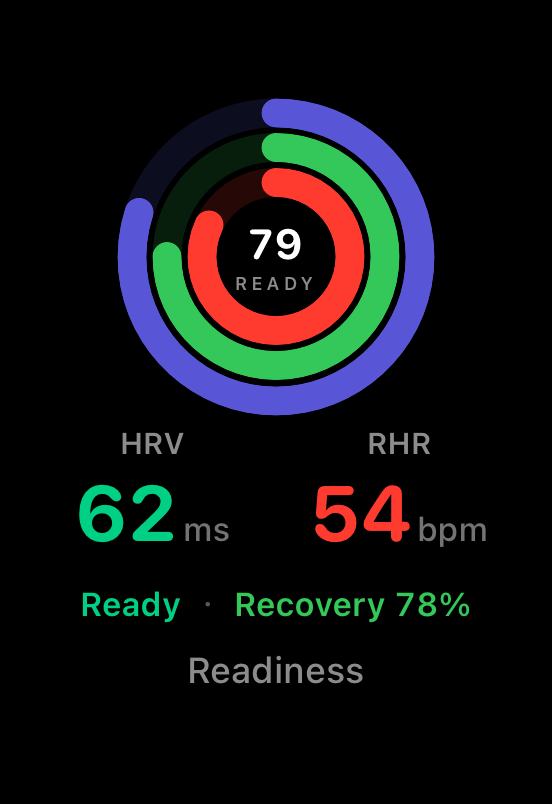
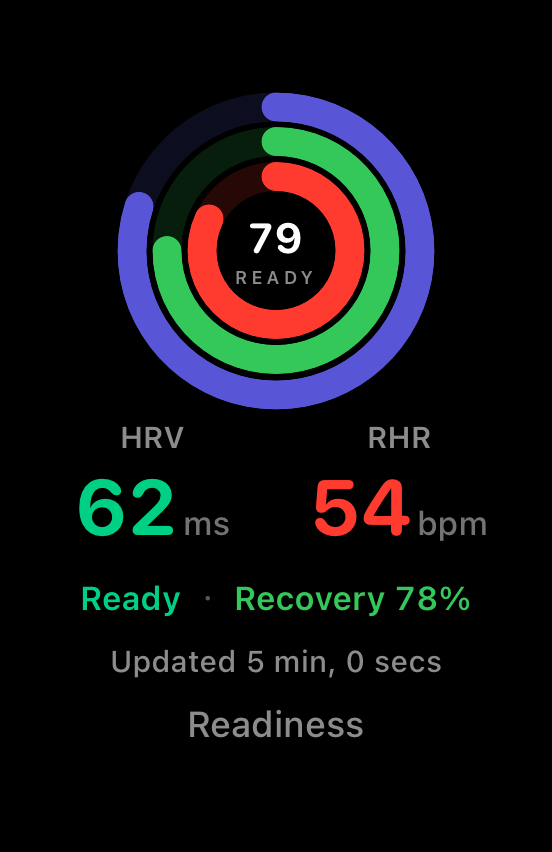
feat(watch): glance Updated cue from WatchSnapshot.date (Honest #52) (#70)
Add compact live Updated … on Watch dashboard/sleep/strain via
WatchGlanceUpdatedCue; refresh verify-watch-dashboard.png chrome.

Changed region(s): [[0.1232, 0.0933, 0.8931, 0.8706], [0.7699, 0.3109, 0.8007, 0.3731], [0.7699, 0.2488, 0.8007, 0.2799]]

diff --git a/ReadinessTracker/Design/CompactTripleRingsView.swift b/ReadinessTracker/Design/CompactTripleRingsView.swift
@@ -778,7 +778,7 @@ struct HomeWidgetCheckInChrome: View {
 }
 
 /// Watch dashboard hero chrome used for audit PNG (`verify-watch-dashboard.png`).
-/// Mirrors watchOS glance: rings + HRV|RHR dual callout + readiness/recovery cue (ImageRenderer / iOS tests).
+/// Mirrors watchOS glance: rings + HRV|RHR dual callout + readiness/recovery + Updated cue (ImageRenderer / iOS tests).
 struct WatchDashboardChrome: View {
     let gymScore: Int
     let workScore: Int
@@ -787,6 +787,8 @@ struct WatchDashboardChrome: View {
     var restingHeartRate: Double = 54
     var readiness: Int = 82
     var recovery: Int = 78
+    /// Glance freshness from `WatchSnapshot.date` (Honest #52); hide if nil.
+    var snapshotDate: Date? = Date().addingTimeInterval(-5 * 60)
 
     private let hrvColor = Color(red: 0/255, green: 208/255, blue: 132/255)
     private let rhrColor = Color(red: 255/255, green: 59/255, blue: 48/255)
@@ -840,12 +842,22 @@ struct WatchDashboardChrome: View {
                     .monospacedDigit()
             }
 
+            if let snapshotDate {
+                HStack(spacing: 0) {
+                    Text("Updated ")
+                    Text(snapshotDate, style: .relative)
+                }
+                .font(.system(size: 10, weight: .medium))
+                .foregroundStyle(Color.white.opacity(0.55))
+                .accessibilityElement(children: .combine)
+            }
+
             Text("Readiness")
                 .font(.system(size: 12, weight: .medium))
                 .foregroundStyle(Color.white.opacity(0.55))
         }
         .padding(16)
-        .frame(width: 184, height: 268)
+        .frame(width: 184, height: 284)
         .background(Color.black)
     }
 

diff --git a/ReadinessTrackerWatch Watch App/WatchTheme.swift b/ReadinessTrackerWatch Watch App/WatchTheme.swift
@@ -61,6 +61,25 @@ enum WatchTheme {
     }
 }
 
+
+/// Compact Fitness-style glance freshness from `WatchSnapshot.date` (live relative; hide if missing).
+struct WatchGlanceUpdatedCue: View {
+    let date: Date?
+    var font: Font = .caption2.weight(.medium)
+
+    var body: some View {
+        if let date {
+            HStack(spacing: 0) {
+                Text("Updated ")
+                Text(date, style: .relative)
+            }
+            .font(font)
+            .foregroundStyle(.secondary)
+            .accessibilityElement(children: .combine)
+        }
+    }
+}
+
 /// Icon + label + value row used across watch pages.
 struct WatchMetricRow: View {
     let icon: String

diff --git a/ReadinessTrackerWatch Watch App/WatchStrainView.swift b/ReadinessTrackerWatch Watch App/WatchStrainView.swift
@@ -37,10 +37,11 @@ struct WatchStrainView: View {
                         )
                     }
 
-                    // Day cue from snapshot.date (existing field only).
+                    // Day + Updated cues from snapshot.date (existing field only; Honest #52).
                     Text(dayLabel(for: snapshot.date))
                         .font(.caption2.weight(.semibold))
                         .foregroundStyle(.secondary)
+                    WatchGlanceUpdatedCue(date: snapshot.date)
 
                     Text("Strain")
                         .font(.caption)

diff --git a/ReadinessTrackerWatch Watch App/WatchDashboardView.swift b/ReadinessTrackerWatch Watch App/WatchDashboardView.swift
@@ -50,6 +50,9 @@ struct WatchDashboardView: View {
                             .monospacedDigit()
                     }
 
+                    // Glance freshness from existing WatchSnapshot.date (Honest #52).
+                    WatchGlanceUpdatedCue(date: snapshot.date)
+
                     Text("Readiness")
                         .font(.caption)
                         .foregroundStyle(.secondary)

diff --git a/ReadinessTrackerWatch Watch App/WatchSleepView.swift b/ReadinessTrackerWatch Watch App/WatchSleepView.swift
@@ -67,6 +67,9 @@ struct WatchSleepView: View {
                         )
                     }
 
+                    // Glance freshness from existing WatchSnapshot.date (Honest #52).
+                    WatchGlanceUpdatedCue(date: snapshot.date)
+
                     Text("Sleep")
                         .font(.caption)
                         .foregroundStyle(.secondary)

diff --git a/README.md b/README.md
@@ -38,7 +38,7 @@ Screenshots are Simulator captures from `./scripts/capture-surfaces.sh` (XCUITes
 | Metric detail chart scrub (date + value callout) | Shipped. Drag scrub on `AdvancedMetricChartView` (score breakdown → detail): RuleMark + tooltip; period selector 7D/30D/90D/1Y; Reduce Motion skips scrub haptics | [verify-metric-detail-scrub.png](.audit/verify-metric-detail-scrub.png) |
 | Classic `MetricDetailView` primary Trend scrub | Shipped. Today → Metrics cards open classic detail; `ChartScrubSelection` drag scrub + RuleMark/`ChartTooltip` on primary Trend chart (parity with Advanced) | [verify-metric-detail-classic-scrub.png](.audit/verify-metric-detail-classic-scrub.png) |
 | Home Screen widget (Gym / Work / Sleep) | Shipped. Small + medium + **large** + **extra large** use Fitness-style `CompactTripleRingsView`; large adds Gym/Work/Sleep rows + HRV/RHR/Sleep hours; extra large (iPad / StandBy) extends large with readiness cue + G/W/S metric tiles; **small** + medium/large/extra-large show Fitness-style live **Updated …** (`Text(..., style: .relative)`) from App Group `lastUpdate` (hide if missing; getSnapshot shares App Group load with timeline); medium/large/extra-large also show interactive **Check-in** / **Evening** / **Trends** (`Link` → `readinesstracker://checkin/{morning|evening}` + `readinesstracker://trends`) | [verify-home-widget.png](.audit/verify-home-widget.png) · [verify-home-widget-small-updated.png](.audit/verify-home-widget-small-updated.png) · [verify-home-widget-large.png](.audit/verify-home-widget-large.png) · [verify-home-widget-extra-large.png](.audit/verify-home-widget-extra-large.png) · [verify-home-widget-updated.png](.audit/verify-home-widget-updated.png) · [verify-home-widget-live-updated.png](.audit/verify-home-widget-live-updated.png) · [verify-home-widget-checkin.png](.audit/verify-home-widget-checkin.png) · [verify-home-widget-deeplinks.png](.audit/verify-home-widget-deeplinks.png) |
-| Watch dashboard hero (Gym / Work / Sleep + HRV\|RHR) | Shipped. Concentric Activity rings + elevated HRV\|RHR dual callout and Ready/Recovery cue on Watch glance; `WatchSnapshot` carries gym/work/sleep + vitals from WatchConnectivity | [verify-watch-dashboard.png](.audit/verify-watch-dashboard.png) |
+| Watch dashboard hero (Gym / Work / Sleep + HRV\|RHR) | Shipped. Concentric Activity rings + elevated HRV\|RHR dual callout, Ready/Recovery cue, and compact live **Updated …** from `WatchSnapshot.date` (hide if missing); sleep/strain glances share the same cue; `WatchSnapshot` carries gym/work/sleep + vitals from WatchConnectivity | [verify-watch-dashboard.png](.audit/verify-watch-dashboard.png) |
 | Watch strain page (Recovery | Strain dual arcs + callout) | Shipped. WHOOP dual concentric arcs (Recovery inner / Strain outer) plus elevated Recovery % \| Strain /21 dual callout and day cue from `WatchSnapshot` via shared `StrainRecoveryDualArcGeometry` + `CompactStrainRecoveryWheel` | [verify-watch-strain.png](.audit/verify-watch-strain.png) |
 | Watch complication (Gym / Work / Sleep rings) | Shipped. WidgetKit accessory circular + **rectangular** + **inline** + **corner** Fitness-style glances in `ReadinessTrackerWatchWidgets` embedded in Watch App; rectangular mirrors Lock Screen (#33) with compact rings + readiness + short G/W/S cues; **inline** elevates colored readiness + short G/W/S (R/G/W/S) text cues within `accessoryInline` width (Lock #34 / rect #44 parity); **corner** keeps compact rings (#44) and elevates `widgetLabel` to colored readiness + short G/W/S cues (inline #45 / `WatchAccessoryCue` parity); timeline from App Group `lastWatchSnapshot` written by iOS `WatchConnectivityManager` / `WidgetDataExporter` + Watch `WatchSessionManager` mirror; iOS prefers WC `transferCurrentComplicationUserInfo` when budget remains **and** glance fields changed (else context/message; App Group always); Watch persist soft-fail reloads `ReadinessWatchComplication` timelines (**portal App Group enable remains manual** in `DEVICE_SETUP.md`) | [verify-watch-complication.png](.audit/verify-watch-complication.png) · [verify-watch-complication-rectangular.png](.audit/verify-watch-complication-rectangular.png) · [verify-watch-complication-inline.png](.audit/verify-watch-complication-inline.png) · [verify-watch-complication-corner.png](.audit/verify-watch-complication-corner.png) |
 | Watch Check-in (Morning / Evening) | Shipped. Wrist sheet elevates to Morning|Evening picker + feel stars + habit toggles; `WatchSessionManager.sendCheckIn` sends correct `timeOfDay` (Evening can include Workout); parity intent with iPhone Check-in tab | [verify-watch-checkin.png](.audit/verify-watch-checkin.png) |
@@ -61,7 +61,7 @@ Four tabs stay Today, History, Check-in, and Settings.
 
 **Settings.** Apple Health Connect / Reconnect. Fitbit Connect / Refresh / Disconnect. Cycle tracking off by default. CSV export. Coaching and notification screens.
 
-**Elsewhere.** History with weekly report. Home screen widgets (small / medium / large / extra large) with live Updated on small+ and Fitness-style Check-in / Evening / Trends deep links on medium/large, Lock Screen circular + rectangular (Fitness-style Gym/Work/Sleep triple rings), Watch dashboard (Fitness-style Gym/Work/Sleep triple rings), and Watch strain (WHOOP Recovery|Strain dual arcs + Recovery %|Strain /21 callout), Watch Check-in (Morning|Evening picker + stars/habits via WatchConnectivity), plus Watch complications (Fitness-style Gym/Work/Sleep circular + rectangular rings via Watch Widgets extension).
+**Elsewhere.** History with weekly report. Home screen widgets (small / medium / large / extra large) with live Updated on small+ and Fitness-style Check-in / Evening / Trends deep links on medium/large, Lock Screen circular + rectangular (Fitness-style Gym/Work/Sleep triple rings), Watch dashboard (Fitness-style Gym/Work/Sleep triple rings + live Updated from `WatchSnapshot.date`), and Watch strain (WHOOP Recovery|Strain dual arcs + Recovery %|Strain /21 callout + Updated), Watch Check-in (Morning|Evening picker + stars/habits via WatchConnectivity), plus Watch complications (Fitness-style Gym/Work/Sleep circular + rectangular rings via Watch Widgets extension).
 
 **Not in this app.** Unofficial WHOOP login. Google Fit REST. Heart Points.
 
@@ -389,3 +389,4 @@ Do not commit `build/`, `build-DD/`, `Readiness.app`, or `Secrets.xcconfig`. The
 49. ~~Watch `WatchDashboardView` rings were elevated but vitals stayed plain HRV/RHR/Recovery metric rows (sleep page already uses Hours|Eff dual callout).~~ Closed — elevated HRV|RHR dual callout + Ready/Recovery cue from existing `WatchSnapshot` fields only; [verify-watch-dashboard.png](.audit/verify-watch-dashboard.png) refreshed via `Scripts/capture-watch-dashboard.sh` (ImageRenderer of `WatchDashboardChrome`).
 50. ~~Watch `WatchStrainView` already had WHOOP dual Recovery|Strain arcs (#30) but secondary rows stayed thin vs sleep/dashboard dual callouts.~~ Closed — elevated Recovery % | Strain /21 dual callout under the wheel + day cue from `WatchSnapshot.date` (no invented metrics; dual arcs kept); [verify-watch-strain.png](.audit/verify-watch-strain.png) refreshed via `Scripts/capture-watch-strain.sh` (ImageRenderer of elevated `WatchStrainChrome`).
 51. ~~Medium/large/XL Home widgets show live Updated (#41/#42) but `SmallWidgetView` still omitted freshness.~~ Closed — compact Fitness-style live **Updated …** (`Text(..., style: .relative)`, 9pt) on `SmallWidgetView` when App Group `lastUpdate` present (hide if missing; rings stay primary); [verify-home-widget-small-updated.png](.audit/verify-home-widget-small-updated.png) from `Scripts/capture-home-widget-small-updated.sh` (ImageRenderer of `HomeWidgetSmallChrome`) + refreshed [verify-home-widget.png](.audit/verify-home-widget.png).
+52. ~~Home widgets show live Updated (#41/#42/#51) but Watch dashboard/sleep/strain glances lacked freshness from existing `WatchSnapshot.date`.~~ Closed — compact Fitness-style live **Updated …** (`Text(..., style: .relative)`) via `WatchGlanceUpdatedCue` on `WatchDashboardView` (+ sleep/strain) when `snapshot.date` present (hide if missing); [verify-watch-dashboard.png](.audit/verify-watch-dashboard.png) refreshed via `Scripts/capture-watch-dashboard.sh` (ImageRenderer of `WatchDashboardChrome`).

diff --git a/progress.md b/progress.md
@@ -1,3 +1,10 @@
+## 2026-09-16 — Poteto: Honest #52 Watch glance Updated cue
+
+- Elevated Watch dashboard/sleep/strain with compact Fitness-style live **Updated …** (`Text(..., style: .relative)`) from existing `WatchSnapshot.date` via `WatchGlanceUpdatedCue` (hide if missing; no new fields).
+- PNG: `.audit/verify-watch-dashboard.png` refreshed via `Scripts/capture-watch-dashboard.sh` (`WatchDashboardCaptureTests` + `ImageRenderer` of `WatchDashboardChrome` with Updated cue).
+- Branch: `feature/poteto-watch-glance-updated` → squash-merge to main.
+- Avoided: Portal, complications, WC infra, Lock filler.
+
 ## 2026-09-16 — Poteto: Honest #51 Home widget small Updated cue
 
 - Elevated Home `SmallWidgetView` with compact Fitness-style live **Updated …** (`Text(..., style: .relative)`, 9pt) from App Group `lastUpdate` (hide if missing); rings slightly tightened (88pt / spacing 4) so triple rings stay primary. Medium+ cues unchanged.
